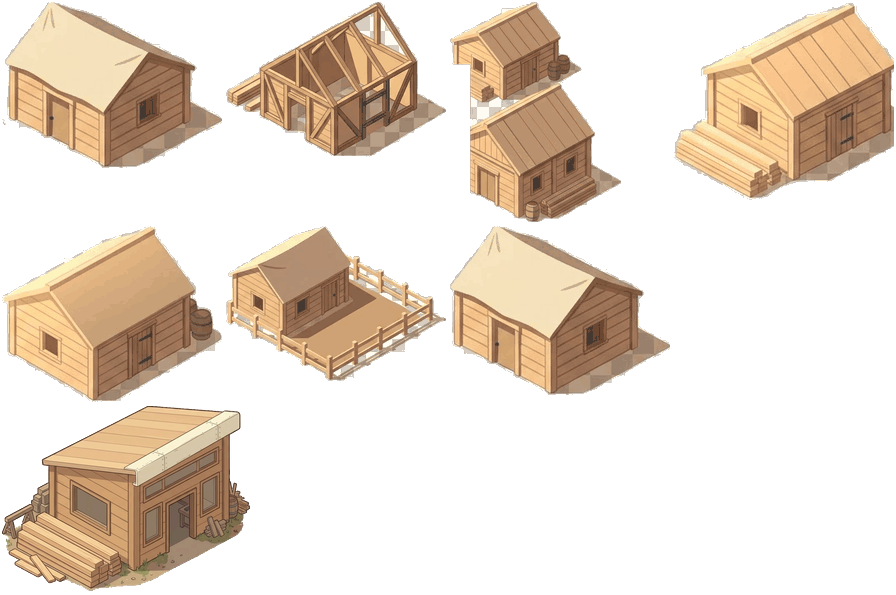
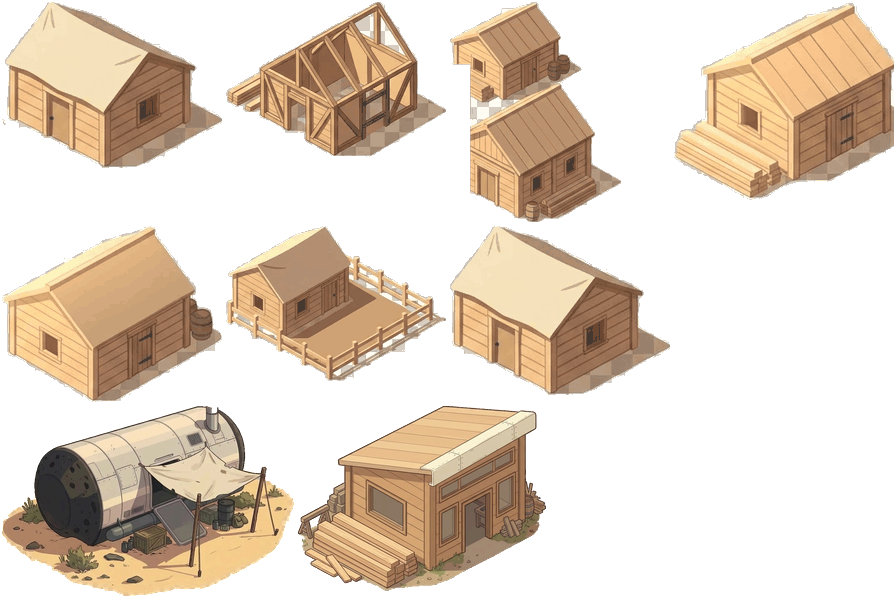
The lander stands beached at The Landing
The redrawn beached lander, on flat sand with its ramp down and an awning out, stands first at a
settlement founded where its charter's lander came down. The keyer peels back ground drawn fading
into the board. DECISIONS.md 201.

Claude-Session: https://claude.ai/code/session_01UnwF8UyZDWb3Ujp9A9GwjM

diff --git a/src/render/settlement-atlas.ts b/src/render/settlement-atlas.ts
@@ -8,15 +8,16 @@ import type { AtlasManifest } from './billboards'
 
 export const SETTLEMENT_ATLAS: AtlasManifest = {
   texture: 'settlement-early.png',
-  size: [1024, 401],
+  size: [1024, 566],
   pieces: {
-    barn: { x: 227, y: 228, w: 219, h: 166, anchorX: 85.1, anchorY: 156.3 },
-    carpenter: { x: 402, y: 4, w: 248, h: 185, anchorX: 147.8, anchorY: 175.2 },
-    frame: { x: 450, y: 228, w: 220, h: 155, anchorX: 122.3, anchorY: 152.4 },
+    barn: { x: 450, y: 228, w: 219, h: 166, anchorX: 85.1, anchorY: 156.3 },
+    carpenter: { x: 698, y: 4, w: 248, h: 185, anchorX: 147.8, anchorY: 175.2 },
+    frame: { x: 673, y: 228, w: 220, h: 155, anchorX: 122.3, anchorY: 152.4 },
     hall: { x: 4, y: 4, w: 170, h: 220, anchorX: 63.3, anchorY: 213.8 },
+    'lander-beached': { x: 402, y: 4, w: 292, h: 190, anchorX: 153.7, anchorY: 186.1 },
     lodge: { x: 178, y: 4, w: 220, h: 195, anchorX: 134.4, anchorY: 175.1 },
-    longhouse: { x: 654, y: 4, w: 219, h: 175, anchorX: 109.3, anchorY: 172.3 },
-    steading: { x: 674, y: 228, w: 220, h: 155, anchorX: 83.0, anchorY: 139.4 },
-    yard: { x: 4, y: 228, w: 219, h: 169, anchorX: 83.0, anchorY: 159.3 },
+    longhouse: { x: 4, y: 228, w: 219, h: 175, anchorX: 109.3, anchorY: 172.3 },
+    steading: { x: 4, y: 407, w: 220, h: 155, anchorX: 83.0, anchorY: 139.4 },
+    yard: { x: 227, y: 228, w: 219, h: 169, anchorX: 83.0, anchorY: 159.3 },
   },
 }

diff --git a/scripts/key-board.py b/scripts/key-board.py
@@ -12,7 +12,8 @@
 # as already keyed.
 #
 # Run with:  python3 scripts/key-board.py SOURCE.jpg OUT.png DARK LIGHT
-#            DARK and LIGHT are the board's two greys, read off its corner squares.
+#            DARK and LIGHT are the board's two greys, read off its corner squares. A sixth argument,
+#            faded, peels back ground drawn fading into the board.
 # Needs numpy, scipy and opencv (cv2).
 
 import sys
@@ -22,7 +23,7 @@ import numpy as np
 from scipy import ndimage
 
 
-def key(path, greys, out):
+def key(path, greys, out, faded=False):
     a = cv2.imread(path).astype(np.float32)
     lum = a.mean(axis=2)
     chroma = a.max(axis=2) - a.min(axis=2)
@@ -74,6 +75,15 @@ def key(path, greys, out):
             touched = ndimage.binary_dilation(~fg, iterations=2)
             keep_ids = set(np.unique(sl[small & touched])) - {0}
             fg &= ~np.isin(sl, list(keep_ids))
+    if faded:
+        # ground drawn fading out into the board leaves a pale, washed ring of board and ground mixed:
+        # peeled back from the edge to where the ground has its own colour. A dark outline stops it,
+        # so a hull or a roof against the board is never touched
+        for _ in range(60):
+            washed = ndimage.binary_dilation(~fg) & fg & (chroma < 75) & (lum > 150)
+            if not washed.any():
+                break
+            fg &= ~washed
     fg = ndimage.binary_opening(fg, np.ones((3, 3)))
     lbl, n = ndimage.label(fg)
     sizes = ndimage.sum(fg, lbl, range(1, n + 1))
@@ -89,5 +99,5 @@ def key(path, greys, out):
 
 if __name__ == '__main__':
     src, out, dark, light = sys.argv[1], sys.argv[2], float(sys.argv[3]), float(sys.argv[4])
-    key(src, [dark, light], out)
+    key(src, [dark, light], out, faded=len(sys.argv) > 5 and sys.argv[5] == 'faded')
     print(f'{out} keyed from {src}')

diff --git a/scripts/extract-sprites.py b/scripts/extract-sprites.py
@@ -371,11 +371,11 @@ UNITS = [
 
 # Buildings drawn one to a picture, cut to the early settlement sheet's scale (the cabin's wall is
 # seventy pixels, src/render/look.ts) and added to art/settlement-early.png by `buildings`. Each is
-# keyed first by scripts/key-board.py: carpenter.jpg 175 227.
+# keyed first by scripts/key-board.py: carpenter.jpg 175 227, landing-lander.jpg 172 253 faded.
 BUILDINGS_OUT = 'art/buildings'
 BUILDINGS = [
-    # the lander beached where it founded the first settlement, the first metal in the colony, is drawn
-    # for as 'lander-beached' (src/render/sprites.ts) and waits for a drawing on flat sand
+    # the lander beached where it founded the first settlement: the first metal in the colony
+    dict(name='lander-beached', source='../buildings/landing-lander.png', px=190, out=BUILDINGS_OUT, keyed=True),
     # the carpenter's shop, square cut timber with a panel of the lander on its roof
     dict(name='carpenter', source='../buildings/carpenter.png', px=185, out=BUILDINGS_OUT, keyed=True),
 ]

diff --git a/DECISIONS.md b/DECISIONS.md
@@ -3612,18 +3612,20 @@ lander and the old pieces as references.
   is the carpenter's picture in the town street and the build catalogue, and every settlement, which
   begins with one, now draws it first. It is the trial of the restyle; the other six drawings stay
   until it has been seen in play.
-- **The beached lander** was drawn too, and is held back: it stands on a sand bank cut off square at
-  its left, which reads as a block on the map. `piecesFor` already puts a `lander-beached` piece first
-  at a settlement founded where its charter's lander came down, and draws nothing until the sheet has
-  one.
+- **The beached lander** stands first at a settlement founded where its charter's lander came down,
+  The Landing and each rival's first (`piecesFor`), on a patch of sand with its ramp down and an
+  awning out. The setting brief, section 7: beached, the lander is the settlement, and the first
+  metal in the colony is the thing that brought you. A first drawing stood on a sand bank cut off
+  square and was redrawn on flat sand fading out at its edges, which `key-board.py faded` peels back
+  to where the sand has its own colour.
 - **Keying.** The new drawings came on boards the colour keyer could not take (a black and mid grey
   board under a boat with dark grey trim, and boards not on one grid). `scripts/key-board.py` keys
   them first with GrabCut, seeded by the board reached from the edge and by everything with colour,
   then peels board off the edge and out of the strips between ropes. The extractor then takes the
   result as already keyed, and a building is cut to the settlement sheet's scale (`px`).
 - **Weight.** Both sheets are now stored as indexed pngs of 255 colours (`scripts/index-sheet.py`),
-  as the first settlement sheet shipped: the settlement sheet goes from 137 to 64 kB with the new
-  piece, the units sheet from 243 to 81 kB. Side by side at the sheet's own pixels the two cannot be
+  as the first settlement sheet shipped: the settlement sheet goes from 137 to 81 kB with the two
+  new pieces, the units sheet from 243 to 81 kB. Side by side at the sheet's own pixels the two cannot be
   told apart.
 
 ## Left out of version one
